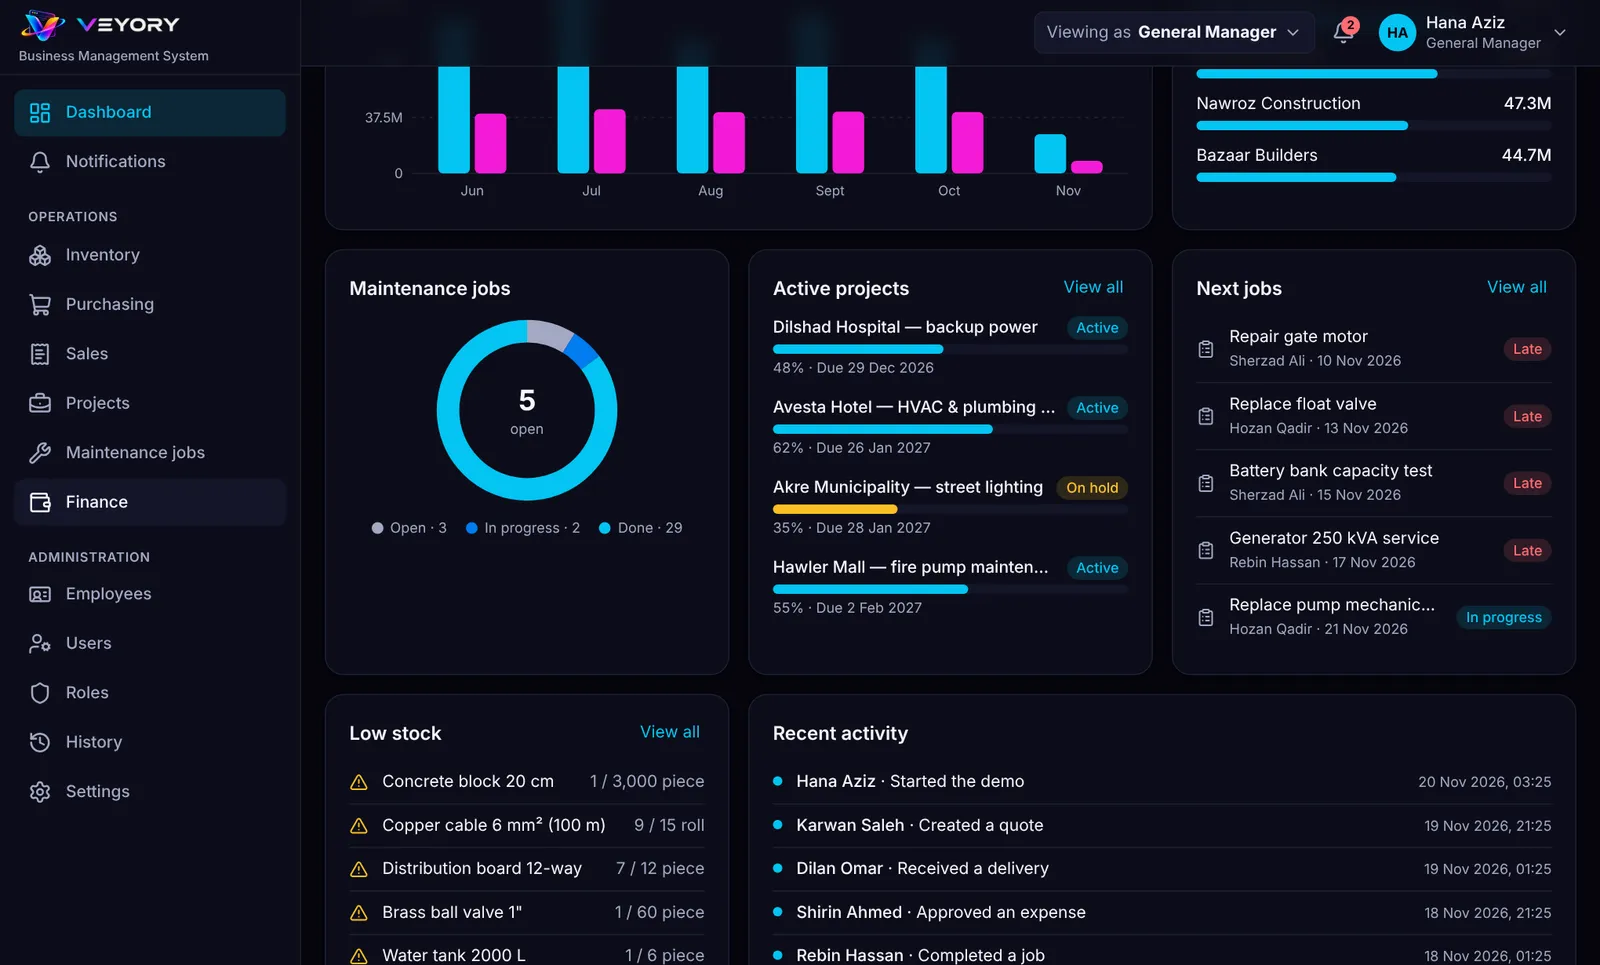
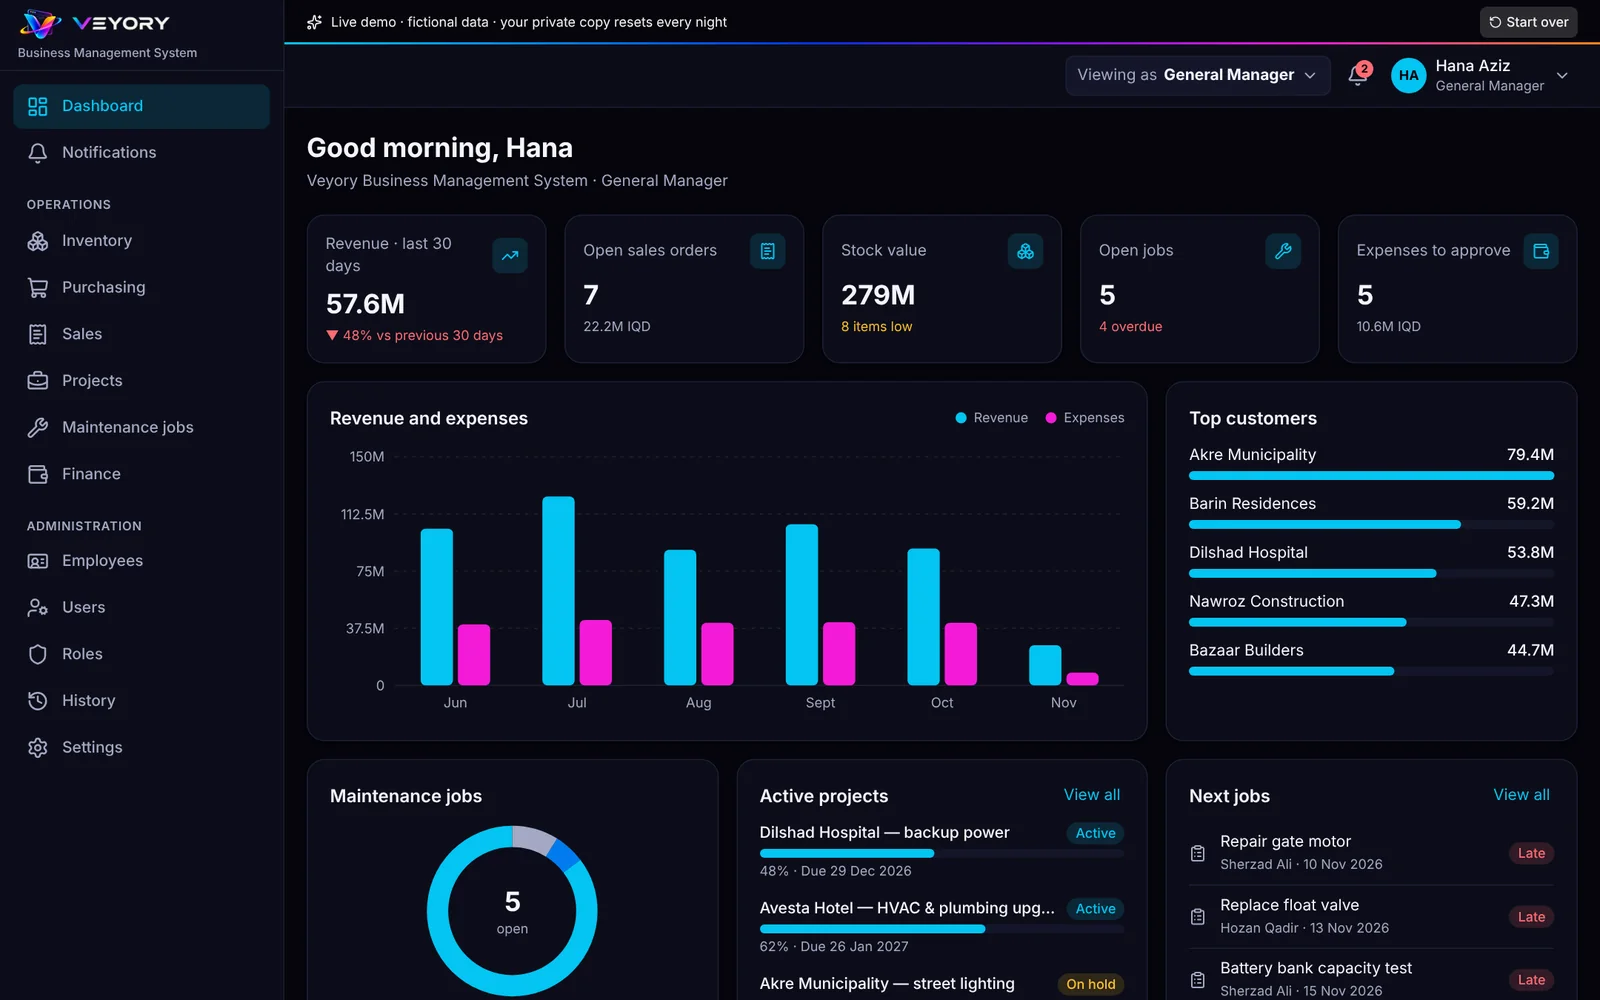
Fix system showcase: clean full screenshots, side-by-side device frames, no overlap
Claude-Session: https://claude.ai/code/session_01LEjqTCziuUnsS58eGGPUB4

diff --git a/style.css b/style.css
@@ -142,16 +142,14 @@ html[lang=ku] body,html[lang=ku] h1,html[lang=ku] h2,html[lang=ku] h3,html[lang=
 .eye2{display:inline-block;font-size:12.5px;font-weight:700;letter-spacing:.2em;text-transform:uppercase;background:var(--grad);-webkit-background-clip:text;background-clip:text;color:transparent;margin-bottom:4px}
 [dir=rtl] .eye2{letter-spacing:0;font-size:14px}
 .bshow{margin-top:24px;border-radius:24px;padding:1px;background:linear-gradient(140deg,rgba(25,211,245,.6),rgba(61,92,255,.4) 35%,rgba(155,61,255,.35) 60%,rgba(255,61,190,.4) 85%,rgba(255,138,26,.5))}
-.bframe{position:relative;border-radius:23px;padding:22px 22px 26px;background:radial-gradient(ellipse 80% 60% at 50% 0%,rgba(25,211,245,.14),transparent 70%),var(--card);direction:ltr}
+.bframe{position:relative;display:flex;gap:22px;align-items:center;border-radius:23px;padding:24px;background:radial-gradient(ellipse 80% 60% at 50% 0%,rgba(25,211,245,.14),transparent 70%),var(--card);direction:ltr}
 .bshow figure{margin:0}
-.bdesk{border-radius:14px;overflow:hidden;border:1px solid #23263f;background:#05050c;box-shadow:0 24px 60px -18px rgba(61,92,255,.55)}
+.bdesk{flex:1;min-width:0;align-self:center;border-radius:14px;overflow:hidden;border:1px solid #23263f;background:#05050c;box-shadow:0 24px 60px -18px rgba(61,92,255,.55)}
 .bbar{display:flex;align-items:center;gap:6px;height:26px;padding:0 10px;background:#0f1122;border-bottom:1px solid #1e2034}
 .bbar i{width:8px;height:8px;border-radius:50%;background:#2a2d47}
 .bbar i:nth-child(1){background:#ff5f57}.bbar i:nth-child(2){background:#febc2e}.bbar i:nth-child(3){background:#28c840}
 .bbar span{margin-inline-start:10px;font-size:11px;color:var(--mute);background:#090a16;border-radius:6px;padding:0 10px;line-height:18px}
 .bdesk img{display:block;width:100%;height:auto}
-.bphone{position:absolute;width:24%;max-width:170px;right:-10px;bottom:-18px;border:5px solid #1a1c2e;border-radius:26px;overflow:hidden;background:#000;box-shadow:0 22px 50px -10px rgba(255,61,190,.5),0 0 0 1px rgba(255,255,255,.06)}
-.bphone img{display:block;width:100%;height:auto}
 .bcap{list-style:none;padding:0;margin-top:34px;display:grid;gap:12px;grid-template-columns:repeat(auto-fit,minmax(min(100%,330px),1fr))}
 .bcap li{display:flex;gap:14px;align-items:flex-start;background:var(--card);border:1px solid var(--line);border-radius:16px;padding:16px 18px;transition:border-color .25s,transform .25s}
 .bcap li:hover{border-color:#34385a;transform:translateY(-2px)}
@@ -168,4 +166,17 @@ html[lang=ku] body,html[lang=ku] h1,html[lang=ku] h2,html[lang=ku] h3,html[lang=
 .bcta{margin-top:26px;text-align:center}
 .bnote{margin:12px auto 0;color:var(--mute);font-size:14.5px;max-width:52ch;line-height:1.6}
 .fict{display:inline-block;font-size:12.5px;font-weight:700;color:#1a1300;background:linear-gradient(120deg,var(--or),var(--ye));border-radius:20px;padding:0 10px;margin-inline-end:4px}
-@media (max-width:560px){.bframe{padding:12px 12px 18px}.bphone{width:30%;right:-6px;bottom:-14px;border-width:3px;border-radius:16px}.bbar span{display:none}}
+
+/* device mockups: side by side, never overlapping */
+.bphones{flex:0 0 21%;display:flex;gap:14px}
+.bphone{flex:1;min-width:0;padding:6px;border-radius:30px;background:linear-gradient(160deg,#2a2d47,#12142a 40%,#1b1e36);box-shadow:0 24px 50px -16px rgba(255,61,190,.45),0 0 0 1px rgba(255,255,255,.07)}
+.bphone img{display:block;width:100%;height:auto;border-radius:24px;background:#05050c}
+.bphone.b2{display:none}
+@media (max-width:860px){
+ .bframe{flex-direction:column;padding:14px;gap:16px}
+ .bdesk{align-self:stretch}
+ .bphones{flex:none;width:min(100%,440px);gap:12px}
+ .bphone.b2{display:block}
+ .bphone{padding:4px;border-radius:22px}.bphone img{border-radius:18px}
+ .bbar span{display:none}
+}

diff --git a/index.html b/index.html
@@ -22,8 +22,7 @@
 
 <main class="wrap">
 <section class="s rv bms" id="system"><span class="eye2" data-k="beye"></span><h2 data-k="bh"></h2><p class="lead" data-k="bl"></p>
-<div class="bshow"><div class="bframe"><figure class="bdesk"><div class="bbar" aria-hidden="true"><i></i><i></i><i></i><span>system.veyory.site</span></div><img src="img/bms-dashboard.webp" alt="Veyory Business Management System dashboard (sample data)" width="1600" height="965" loading="lazy"></figure>
-<figure class="bphone"><img src="img/bms-phone.webp" alt="Veyory Business Management System on a phone (sample data)" width="585" height="1266" loading="lazy"></figure></div></div>
+<div class="bshow"><div class="bframe"><figure class="bdesk"><div class="bbar" aria-hidden="true"><i></i><i></i><i></i><span>system.veyory.site</span></div><img src="img/bms-dashboard.webp" alt="Veyory Business Management System dashboard (sample data)" width="1600" height="1000" loading="lazy"></figure><div class="bphones"><figure class="bphone"><img src="img/bms-phone.webp" alt="Inventory on a phone (sample data)" width="560" height="1183" loading="lazy"></figure><figure class="bphone b2"><img src="img/bms-phone-finance.webp" alt="Finance on a phone (sample data)" width="560" height="1183" loading="lazy"></figure></div></div></div>
 <ul class="bcap"><li><span class="bi"><svg viewBox="0 0 24 24" aria-hidden="true" fill="none" stroke="currentColor" stroke-width="2" stroke-linecap="round" stroke-linejoin="round"><path d="M3 8l9-5 9 5v8l-9 5-9-5z M3 8l9 5 9-5 M12 13v8"/></svg></span><div><h4 data-k="b1h"></h4><p data-k="b1p"></p></div></li><li><span class="bi"><svg viewBox="0 0 24 24" aria-hidden="true" fill="none" stroke="currentColor" stroke-width="2" stroke-linecap="round" stroke-linejoin="round"><path d="M4 7h13l-3-3 M20 17H7l3 3"/></svg></span><div><h4 data-k="b2h"></h4><p data-k="b2p"></p></div></li><li><span class="bi"><svg viewBox="0 0 24 24" aria-hidden="true" fill="none" stroke="currentColor" stroke-width="2" stroke-linecap="round" stroke-linejoin="round"><path d="M14.7 6.3a4 4 0 0 0-5.4 5.4L3 18l3 3 6.3-6.3a4 4 0 0 0 5.4-5.4l-2.6 2.6-2.4-.6-.6-2.4z"/></svg></span><div><h4 data-k="b3h"></h4><p data-k="b3p"></p></div></li><li><span class="bi"><svg viewBox="0 0 24 24" aria-hidden="true" fill="none" stroke="currentColor" stroke-width="2" stroke-linecap="round" stroke-linejoin="round"><path d="M3 7h18v12H3z M3 11h18 M16 15h2"/></svg></span><div><h4 data-k="b4h"></h4><p data-k="b4p"></p></div></li><li><span class="bi"><svg viewBox="0 0 24 24" aria-hidden="true" fill="none" stroke="currentColor" stroke-width="2" stroke-linecap="round" stroke-linejoin="round"><path d="M9 11a4 4 0 1 0 0-8 4 4 0 0 0 0 8z M2 21a7 7 0 0 1 14 0 M17 3a4 4 0 0 1 0 8 M22 21a7 7 0 0 0-4-6.3"/></svg></span><div><h4 data-k="b5h"></h4><p data-k="b5p"></p></div></li><li><span class="bi"><svg viewBox="0 0 24 24" aria-hidden="true" fill="none" stroke="currentColor" stroke-width="2" stroke-linecap="round" stroke-linejoin="round"><path d="M12 3l8 3v6c0 5-3.5 8-8 9-4.5-1-8-4-8-9V6z M9 12l2 2 4-4"/></svg></span><div><h4 data-k="b6h"></h4><p data-k="b6p"></p></div></li></ul>
 <div class="bcta"><a class="btn" href="https://system.veyory.site/" target="_blank" rel="noopener"><span data-k="bbtn"></span><svg class="ext" viewBox="0 0 24 24" aria-hidden="true"><path d="M14 4h6v6M20 4l-9 9M18 14v5a1 1 0 0 1-1 1H5a1 1 0 0 1-1-1V7a1 1 0 0 1 1-1h5" fill="none" stroke="currentColor" stroke-width="2.2" stroke-linecap="round" stroke-linejoin="round"/></svg></a><p class="bnote"><span class="fict" data-k="bfict"></span> <span data-k="bnew"></span></p></div>
 </section>

diff --git a/sw.js b/sw.js
@@ -1,4 +1,4 @@
-const C='veyory-v3',A=['/','/index.html','/manifest.webmanifest','/img/mark.webp','/img/wordmark.webp','/img/icon-192.png','/style.css','/t.js','/app.js','/img/mhd-1.webp','/img/mhd-2.webp','/fonts/rudaw-regular.woff','/img/bms-dashboard.webp','/img/bms-phone.webp'];
+const C='veyory-v4',A=['/','/index.html','/manifest.webmanifest','/img/mark.webp','/img/wordmark.webp','/img/icon-192.png','/style.css','/t.js','/app.js','/img/mhd-1.webp','/img/mhd-2.webp','/fonts/rudaw-regular.woff','/img/bms-dashboard.webp','/img/bms-phone.webp','/img/bms-phone-finance.webp'];
 self.addEventListener('install',e=>{e.waitUntil(caches.open(C).then(c=>c.addAll(A)).then(()=>self.skipWaiting()))});
 self.addEventListener('activate',e=>{e.waitUntil(caches.keys().then(k=>Promise.all(k.filter(x=>x!==C).map(x=>caches.delete(x)))).then(()=>self.clients.claim()))});
 self.addEventListener('fetch',e=>{const r=e.request;if(r.method!=='GET'||new URL(r.url).origin!==location.origin)return;
